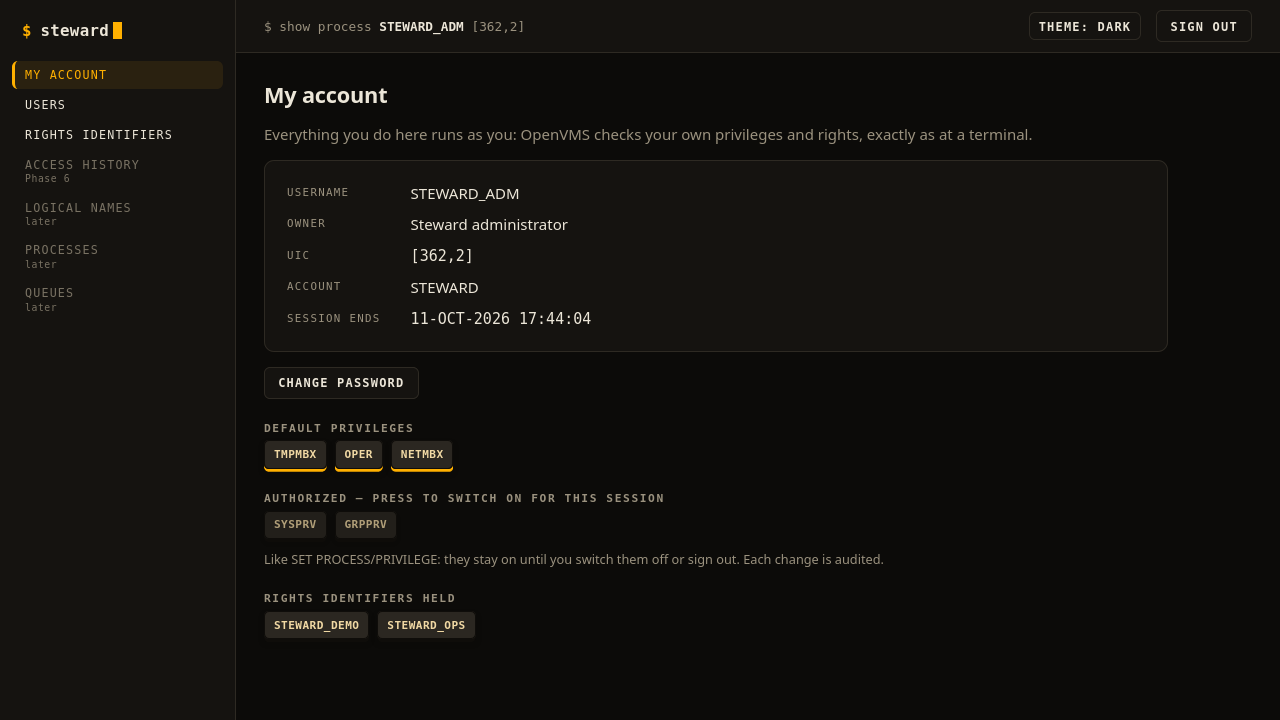
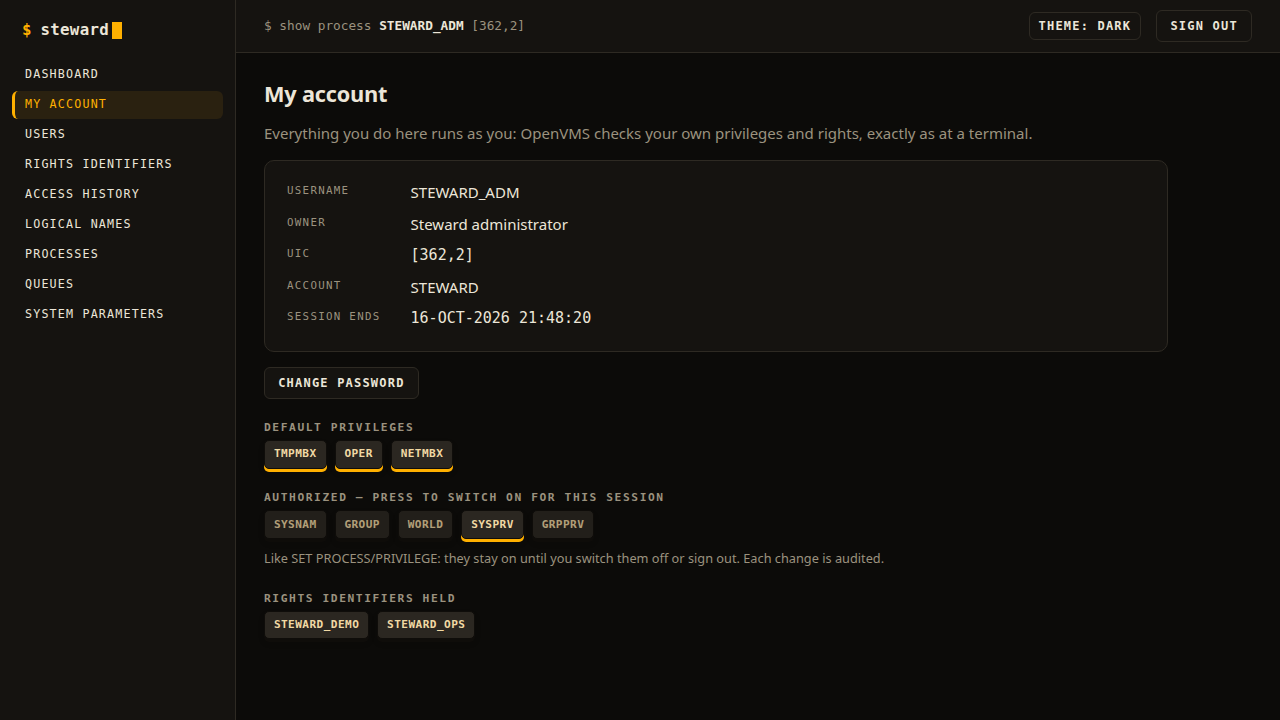
steward.issinoho.com: up to date with 0.9.0
The page still described 0.3: users and rights only, with access history, logical
names, processes and queues under "Coming", and screenshots whose menus showed those
areas as "later".

- The lede, the "speaks VMS" card, the audit card (logical-name values are never
  recorded) and the ticker name what 0.9.0 does.
- Screens: every screenshot retaken, and six new tabs: access history, logical names,
  processes, one process, queues, system parameters.
- How it works: the diagram shows the services behind the new areas ($GETJPI,
  $GETQUI, $SNDJBC, $DELPRC, the SHOW LOGICAL and SYSGEN helper).
- Today and next: 0.9.0's areas move to the release; Coming is now licences,
  installed products, monitoring, the error log and a terminal, and IA64 kits, as in
  0.9.0's README.
- Install: the lighttpd RESTART step the README and release notes have.
- The typed session holds a job (%STEWARD-I-HELD, the queues view's own message).

Licences (0.10) are left under Coming: 0.9.0 is the latest published release, and
the download button follows it.

The screenshots come from the v0.9.0 tag, built on Linux against the stub platform
and served by tools/devserver.py (its __login shortcut), captured with headless
Chromium over DevTools at 1280 wide in the dark theme, so the menus are 0.9.0's,
without 0.10's Licences. Checked by rendering the site locally: the tabs, the
diagram and the roadmap lay out cleanly.

diff --git a/site/index.html b/site/index.html
@@ -40,7 +40,8 @@
     <p class="eyebrow"><span class="led" aria-hidden="true"></span> Early test release &middot; OpenVMS x86-64</p>
     <h1>OpenVMS system management, <span class="amber">in your browser.</span></h1>
     <p class="lede">Steward gives your OpenVMS systems a fast, modern web console for
-      users, rights and privileges, and lets OpenVMS itself decide who may do what.
+      users and rights, access history, logical names, processes, queues and system
+      parameters, and lets OpenVMS itself decide who may do what.
       Sign in with your OpenVMS account. Every request runs <em>as you</em>.</p>
     <div class="cta">
       <a class="btn primary" id="download" href="https://github.com/issinoho/vms-steward/releases/latest">Download the kit</a>
@@ -70,9 +71,11 @@
     <span>SYS$ACM</span><span>$PERSONA_CREATE</span><span>AUTHORIZE</span><span>RIGHTSLIST</span>
     <span>SET PROCESS/PRIVILEGE</span><span>BREAK-IN EVASION</span><span>PCSI</span><span>LK201</span>
     <span>%STEWARD-S-MDFYMSG</span><span>RMS</span><span>[362,1]</span><span>DCL</span>
+    <span>SHOW SYSTEM</span><span>$GETQUI</span><span>SHOW LOGICAL</span><span>SYSGEN</span>
     <span>SYS$ACM</span><span>$PERSONA_CREATE</span><span>AUTHORIZE</span><span>RIGHTSLIST</span>
     <span>SET PROCESS/PRIVILEGE</span><span>BREAK-IN EVASION</span><span>PCSI</span><span>LK201</span>
     <span>%STEWARD-S-MDFYMSG</span><span>RMS</span><span>[362,1]</span><span>DCL</span>
+    <span>SHOW SYSTEM</span><span>$GETQUI</span><span>SHOW LOGICAL</span><span>SYSGEN</span>
   </div>
 </div>
 
@@ -102,7 +105,8 @@
     <article class="card feature">
       <div class="keycap" aria-hidden="true">DCL</div>
       <h3>It speaks VMS</h3>
-      <p>Screens laid out as AUTHORIZE lays them out. DCL wildcards in every filter.
+      <p>Screens laid out as AUTHORIZE, SHOW SYSTEM, SHOW QUEUE and SYSGEN lay them out.
+        DCL wildcards in every filter.
         Messages in <code>%FACILITY-S-IDENT</code> form, with the system's own text when
         OpenVMS says no. Privileges you switch on and off like
         <code>SET PROCESS/PRIVILEGE</code>.</p>
@@ -125,7 +129,7 @@
       <div class="keycap" aria-hidden="true">LOG</div>
       <h3>A record of every change</h3>
       <p>Each sign-in, privilege switch and change is logged with who made it, from where,
-        and what OpenVMS answered. Passwords are never recorded. Break-in evasion applies
+        and what OpenVMS answered. Passwords and logical-name values are never recorded. Break-in evasion applies
         to each browser separately, even behind a reverse proxy.</p>
     </article>
   </div>
@@ -145,6 +149,12 @@
     <button role="tab" aria-selected="false" aria-controls="shot" data-shot="modify" data-cap="Modify, as AUTHORIZE MODIFY does. Only what you change is sent, and a change made meanwhile by someone else is never overwritten.">Modify</button>
     <button role="tab" aria-selected="false" aria-controls="shot" data-shot="account" data-cap="Your session: switch authorized privileges on for this session, like SET PROCESS/PRIVILEGE. Each switch is audited.">Privileges</button>
     <button role="tab" aria-selected="false" aria-controls="shot" data-shot="ident" data-cap="Rights identifiers with their values, attributes and holders.">Identifiers</button>
+    <button role="tab" aria-selected="false" aria-controls="shot" data-shot="access" data-cap="Access history: who reached the system, when, from where and by which route, from accounting, the audit journal, the SSH logs and Steward's own log, in one view.">Access history</button>
+    <button role="tab" aria-selected="false" aria-controls="shot" data-shot="logicals" data-cap="Logical names, as SHOW LOGICAL shows them to you: the shareable tables and their names. Define, modify and deassign where OpenVMS lets you.">Logical names</button>
+    <button role="tab" aria-selected="false" aria-controls="shot" data-shot="processes" data-cap="Processes, as SHOW SYSTEM lists them: your own, your group's with GROUP, everyone's with WORLD.">Processes</button>
+    <button role="tab" aria-selected="false" aria-controls="shot" data-shot="process" data-cap="One process, as SHOW PROCESS/ALL: state, image, CPU and I/O, privileges, rights and every quota with what is left. Stop it, as STOP/ID, if OpenVMS lets you.">Process</button>
+    <button role="tab" aria-selected="false" aria-controls="shot" data-shot="queues" data-cap="Batch and print queues, as SHOW QUEUE. Open one for its jobs; hold, release and delete jobs, stop and start queues, with the queue manager deciding who may.">Queues</button>
+    <button role="tab" aria-selected="false" aria-controls="shot" data-shot="sysgen" data-cap="System parameters, as SYSGEN SHOW/ALL prints them: current, default, limits and unit, with values off their default marked. Read-only.">System parameters</button>
     <button role="tab" aria-selected="false" aria-controls="shot" data-shot="signin" data-cap="Sign in with your OpenVMS username and password, checked by SYS$ACM. An expired password can be changed right here.">Sign in</button>
   </div>
   <figure class="shot" id="shot" role="tabpanel">
@@ -161,7 +171,7 @@
   <p class="kicker">03 / How it works</p>
   <h2>Small moving parts. Each one checked.</h2>
   <div class="how">
-    <div class="term-box" role="img" aria-label="Browser, then an HTTPS reverse proxy, then lighttpd, then the Steward pool, then SYS$ACM and your persona, then SYSUAF and RIGHTSLIST">
+    <div class="term-box" role="img" aria-label="Browser, then an HTTPS reverse proxy, then lighttpd, then the Steward pool, then SYS$ACM and your persona, then the system: SYSUAF, RIGHTSLIST, processes, queues, logical names and system parameters">
 <pre><span class="dim">browser</span> <span class="amber">──HTTPS──▶</span> reverse proxy <span class="dim">(optional, ends TLS)</span>
                  │
                  ▼
@@ -173,9 +183,11 @@
        ┌─────────┴──────────┐
    <b>SYS$ACM</b>              <b>your persona</b>
   password, expiry,     $GETUAI  $SETUAI  RMS
-  break-in evasion      $IDTOASC $ADD_HOLDER …
+  break-in evasion      $GETJPI  $GETQUI  $SNDJBC
+                        $DELPRC  SHOW LOGICAL  SYSGEN …
                              │
-                     <span class="amber">SYSUAF · RIGHTSLIST</span></pre>
+                <span class="amber">SYSUAF · RIGHTSLIST · processes</span>
+                <span class="amber">queues · logical names · parameters</span></pre>
     </div>
     <ol class="steps">
       <li><b>You sign in.</b> <code>SYS$ACM</code> checks your password, so expiry, DISUSER,
@@ -198,7 +210,7 @@
 <!-- ============================================================ TODAY / ROADMAP -->
 <section class="section" id="roadmap">
   <p class="kicker">04 / Today and next</p>
-  <h2>Users and rights first. The whole system next.</h2>
+  <h2>Users, processes, queues. The rest of the system next.</h2>
   <div class="roadmap">
     <div class="col now">
       <h3><span class="pill on">In the release</span></h3>
@@ -210,6 +222,12 @@
         <li>Set passwords, pre-expired if you like; change your own, even when it has expired</li>
         <li>Rights identifiers: create, rename, attributes, delete; grant and revoke</li>
         <li>Switch your authorized privileges on and off, per session</li>
+        <li><b>Access history:</b> who connected, when, from where and how, across SSH, TELNET,
+          batch, the console and Steward, gathered into one view instead of several log files</li>
+        <li>Logical names, as SHOW LOGICAL shows them to you; define, modify and deassign</li>
+        <li>Processes, as SHOW SYSTEM and SHOW PROCESS/ALL; stop one, as STOP/ID</li>
+        <li>Batch and print queues and their jobs; hold, release and delete jobs, stop and start queues</li>
+        <li>System parameters, as SYSGEN SHOW/ALL, read-only</li>
         <li>An audit log of every sign-in and change</li>
         <li>Light and dark themes</li>
       </ul>
@@ -217,10 +235,9 @@
     <div class="col next">
       <h3><span class="pill">Coming</span></h3>
       <ul class="arrows">
-        <li><b>Access history:</b> who connected, when, and how, across SSH, TELNET, FTP,
-          DECnet, batch and Steward, gathered into one view instead of three log files</li>
-        <li>Logical names, processes, batch and print queues</li>
-        <li>System parameters, licences, installed products, the error log</li>
+        <li><b>Licences:</b> what is loaded and what is registered, read-only</li>
+        <li>Installed products</li>
+        <li>CPU and memory monitoring, the error log, a terminal in the browser</li>
         <li>IA64 kits</li>
       </ul>
     </div>
@@ -230,7 +247,7 @@
 <!-- ============================================================ INSTALL -->
 <section class="section" id="install">
   <p class="kicker">05 / Install</p>
-  <h2>Three commands and one include line.</h2>
+  <h2>Four commands and one include line.</h2>
   <div class="install">
     <div class="term-box">
 <pre><span class="dim">$!</span> <span class="dim">once, as SYSTEM</span>
@@ -238,7 +255,8 @@ $ PRODUCT INSTALL STEWARD /SOURCE=dev:[dir]
 $ @STEWARD$ROOT:[COM]STEWARD$CONFIGURE
 <span class="dim">$! add the include line it prints to LIGHTTPD.CONF</span>
 $ @STEWARD$ROOT:[COM]STEWARD$CONTROL START
-<span class="ok">STEWARD: start submitted as STEWARD</span></pre>
+<span class="ok">STEWARD: start submitted as STEWARD</span>
+$ @VMSLIGHTTPD$ROOT:[COM]VMSLIGHTTPD$CONTROL RESTART</pre>
     </div>
     <div class="req">
       <h3>You will need</h3>

diff --git a/site/site.js b/site/site.js
@@ -13,6 +13,8 @@
     ['ok',  '%STEWARD-S-MDFYMSG, user record(s) updated: flags'],
     ['cmd', '$ authorize grant/identifier project_x steward_test'],
     ['ok',  '%STEWARD-S-GRANTMSG, identifier PROJECT_X granted to STEWARD_TEST'],
+    ['cmd', '$ set entry 272/hold'],
+    ['ok',  '%STEWARD-I-HELD, entry 272 held'],
     ['cmd', '$ set process/privilege=nosysprv'],
     ['ok',  '%STEWARD-S-PRVDIS, SYSPRV disabled for this session'],
     ['cmd', '$ authorize show system'],
@@ -63,7 +65,8 @@
     var buttons = document.querySelectorAll('.tabs button');
     var img = document.getElementById('shot-img'), cap = document.getElementById('shot-cap');
     var sizes = { dashboard: [1280, 920], users: [1280, 820], user: [1280, 1340], modify: [1280, 1000], account: [1280, 720],
-                  ident: [1280, 760], signin: [1280, 760] };
+                  ident: [1280, 760], access: [1280, 900], logicals: [1280, 900], processes: [1280, 900],
+                  process: [1280, 1100], queues: [1280, 800], sysgen: [1280, 1000], signin: [1280, 760] };
     Array.prototype.forEach.call(buttons, function (b) {
       b.addEventListener('click', function () {
         Array.prototype.forEach.call(buttons, function (o) { o.setAttribute('aria-selected', o === b ? 'true' : 'false'); });
